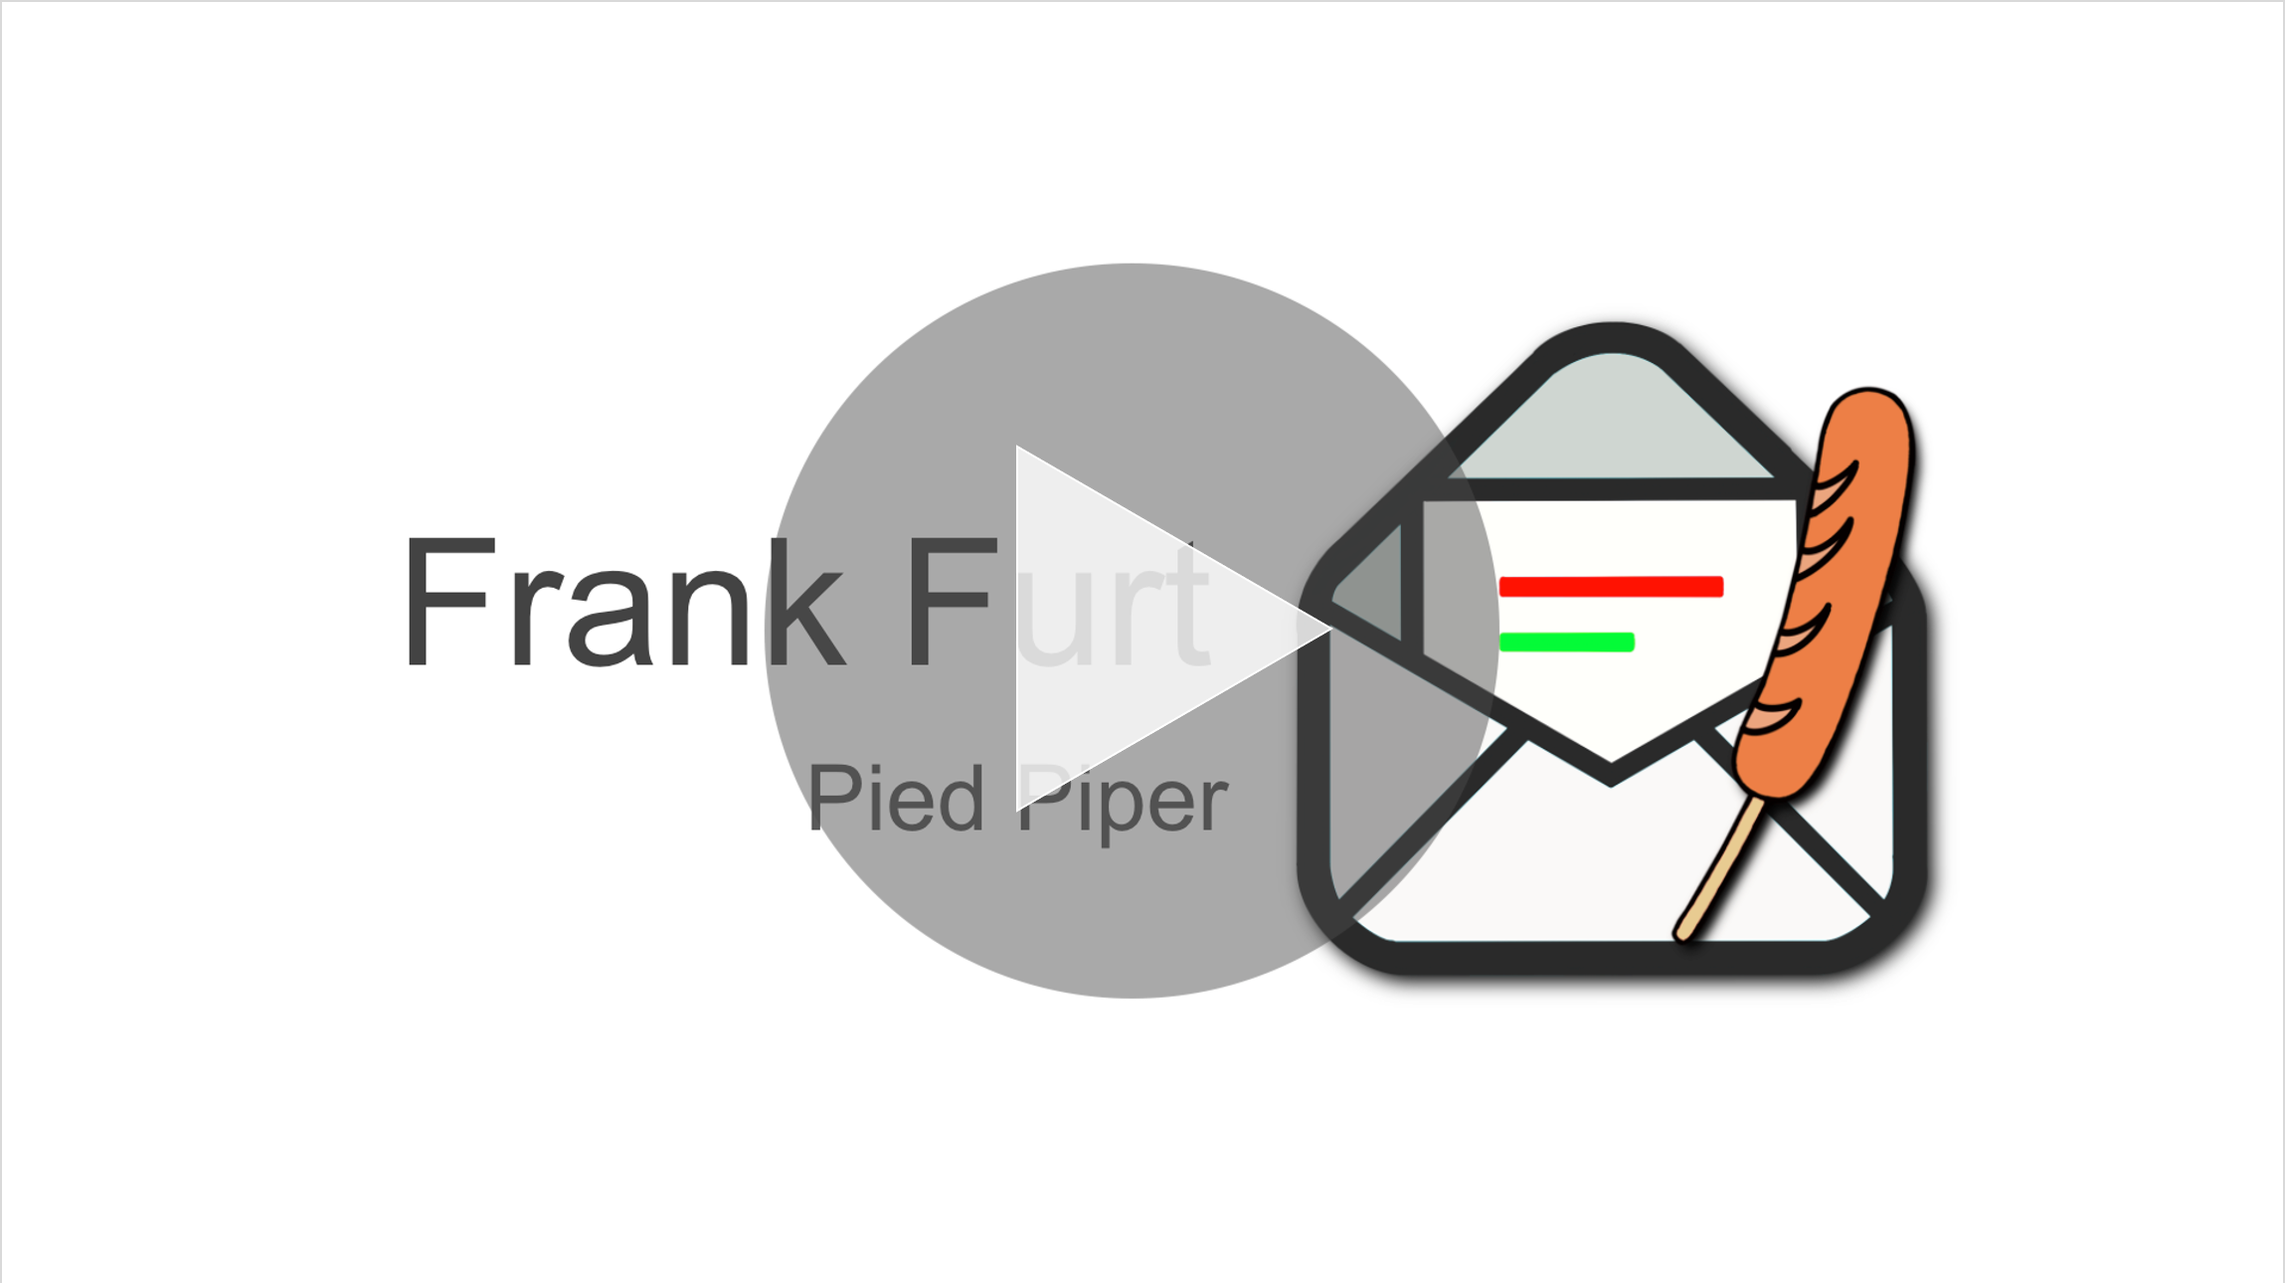
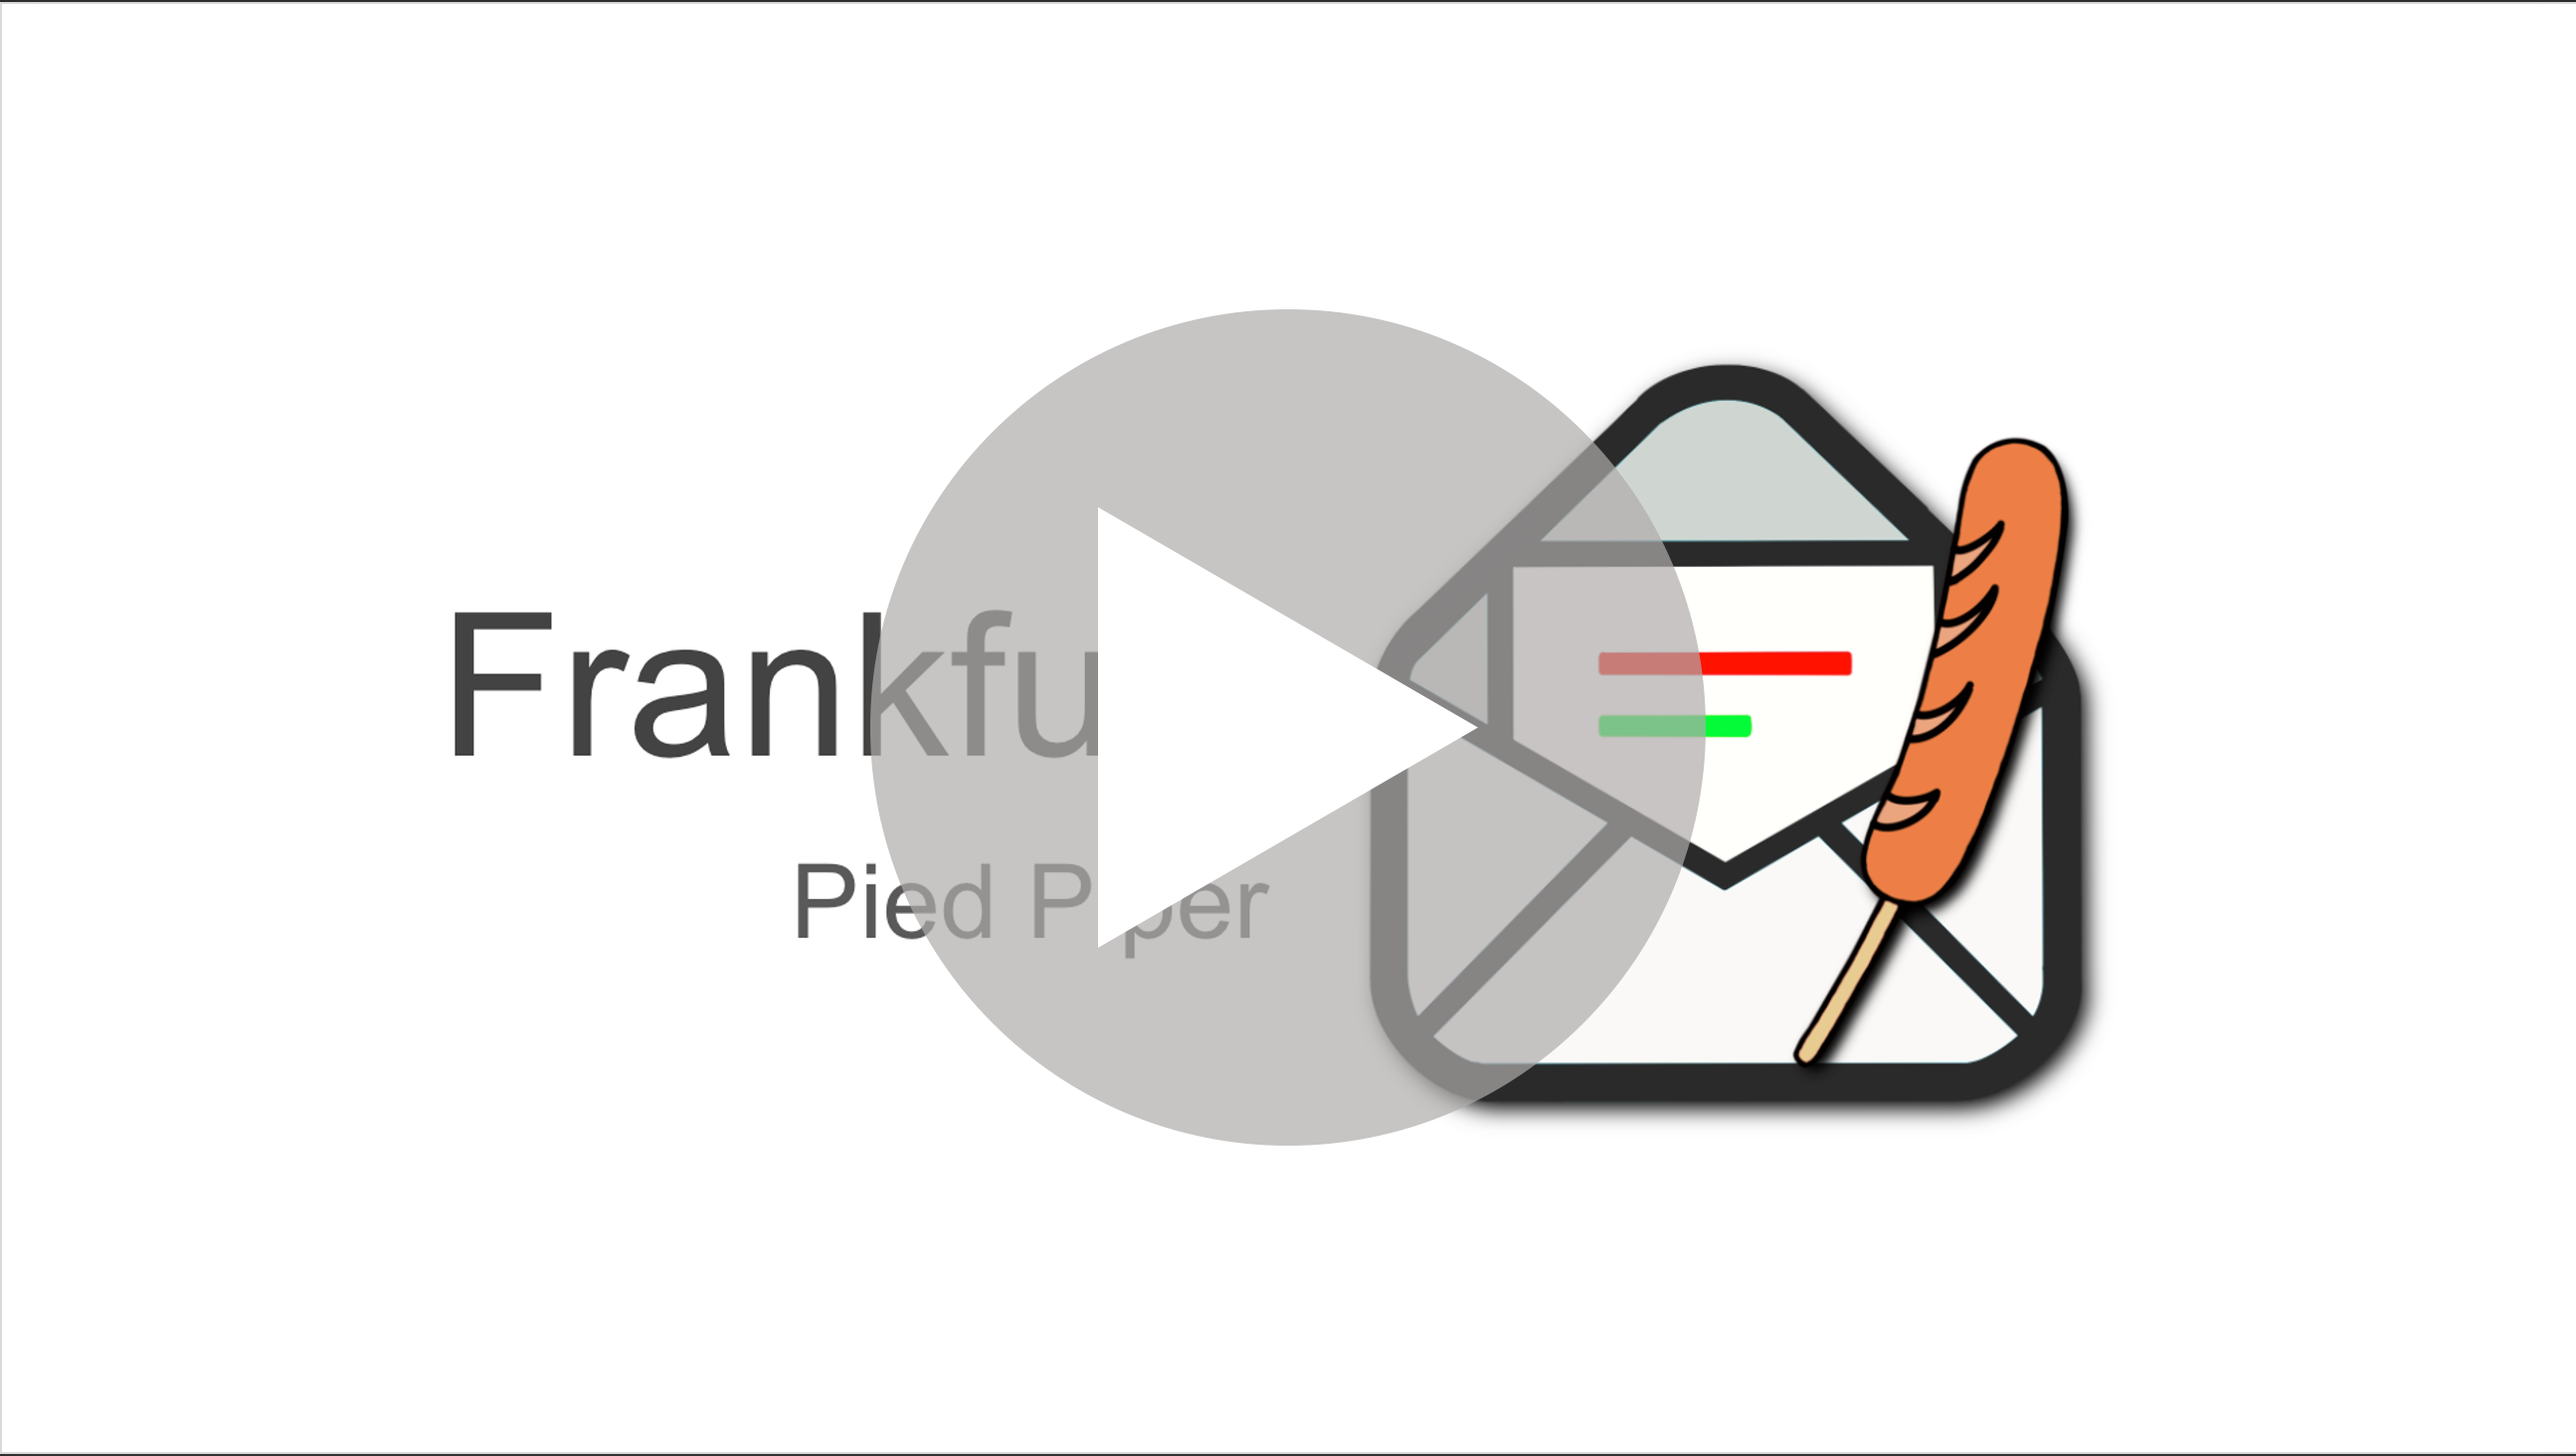
紹介動画からデモを排除して新しいデザインに切り替えを行った． 吹き込みのゲインも 調整した

Changed region(s): [[0.1545, 0.186, 0.8651, 0.8062], [0.0, 0.9922, 1.0, 1.0], [0.9887, 0.0, 1.0, 0.031]]

diff --git a/README.md b/README.md
@@ -4,9 +4,9 @@
 
 [![IMAGE ALT TEXT HERE](https://github.com/jphacks/C_2002/wiki/images/pop-logo.png)](https://github.com/jphacks/C_2002/wiki/images/pop-logo.png)
 
-## 紹介動画〜デモ入り〜
+## 紹介動画
 
-[![DEMO](https://github.com/jphacks/C_2002/blob/master/%E3%83%97%E3%83%AC%E3%82%BC%E3%83%B3/StartDemo.png?raw=true)](https://youtu.be/GHsLTyOwET8)
+[![DEMO](https://github.com/jphacks/C_2002/blob/master/%E3%83%97%E3%83%AC%E3%82%BC%E3%83%B3/StartDemo.png?raw=true)](https://youtu.be/6h94DrLlfuI)
 
 ## アーキテクチャ
 
